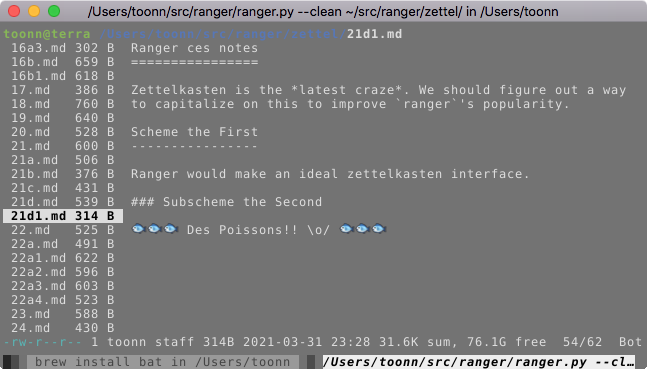
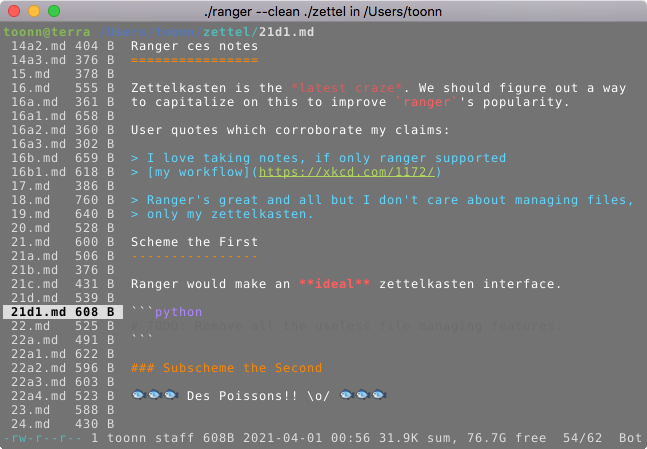
Second note to self
More bling for the dingaling!

Changed region(s): [[0.0, 0.0, 1.0, 1.0], [0.9274, 0.2385, 0.9892, 0.2683], [0.711, 0.8943, 0.7419, 0.9241]]

diff --git a/zettel/21d1.md b/zettel/21d1.md
@@ -4,10 +4,22 @@ Ranger ces notes
 Zettelkasten is the *latest craze*. We should figure out a way
 to capitalize on this to improve `ranger`'s popularity. 
 
+User quotes which corroborate my claims:
+
+> I love taking notes, if only ranger supported
+> [my workflow](https://xkcd.com/1172/)
+
+> Ranger's great and all but I don't care about managing files,
+> only my zettelkasten.
+
 Scheme the First
 ----------------
 
-Ranger would make an ideal zettelkasten interface.
+Ranger would make an **ideal** zettelkasten interface.
+
+```python
+# TODO: Remove all the useless file managing features.
+```
 
 ### Subscheme the Second
 

diff --git a/README.md b/README.md
@@ -17,7 +17,7 @@ zettel. Il est livré avec `rifle`, un lanceur de fichiers qui est bon pour
 trouver automatiquement d'utiliser quel programme pour modifier tes zettel.
 C'est le moyen idéal pour gérer ton zettelkasten.
 
-![capture d'écran](https://raw.githubusercontent.com/toonn/ranger/farnear/capturedecran.png)
+![capture d'écran](https://raw.githubusercontent.com/ranger/ranger/farnear/capturedecran.png)
 
 Ce fichier décrit ranger et comment le faire fonctionner. Pour des instructions
 sur l'utilisation, veuillez lire la page de man (`man ranger` dans un
